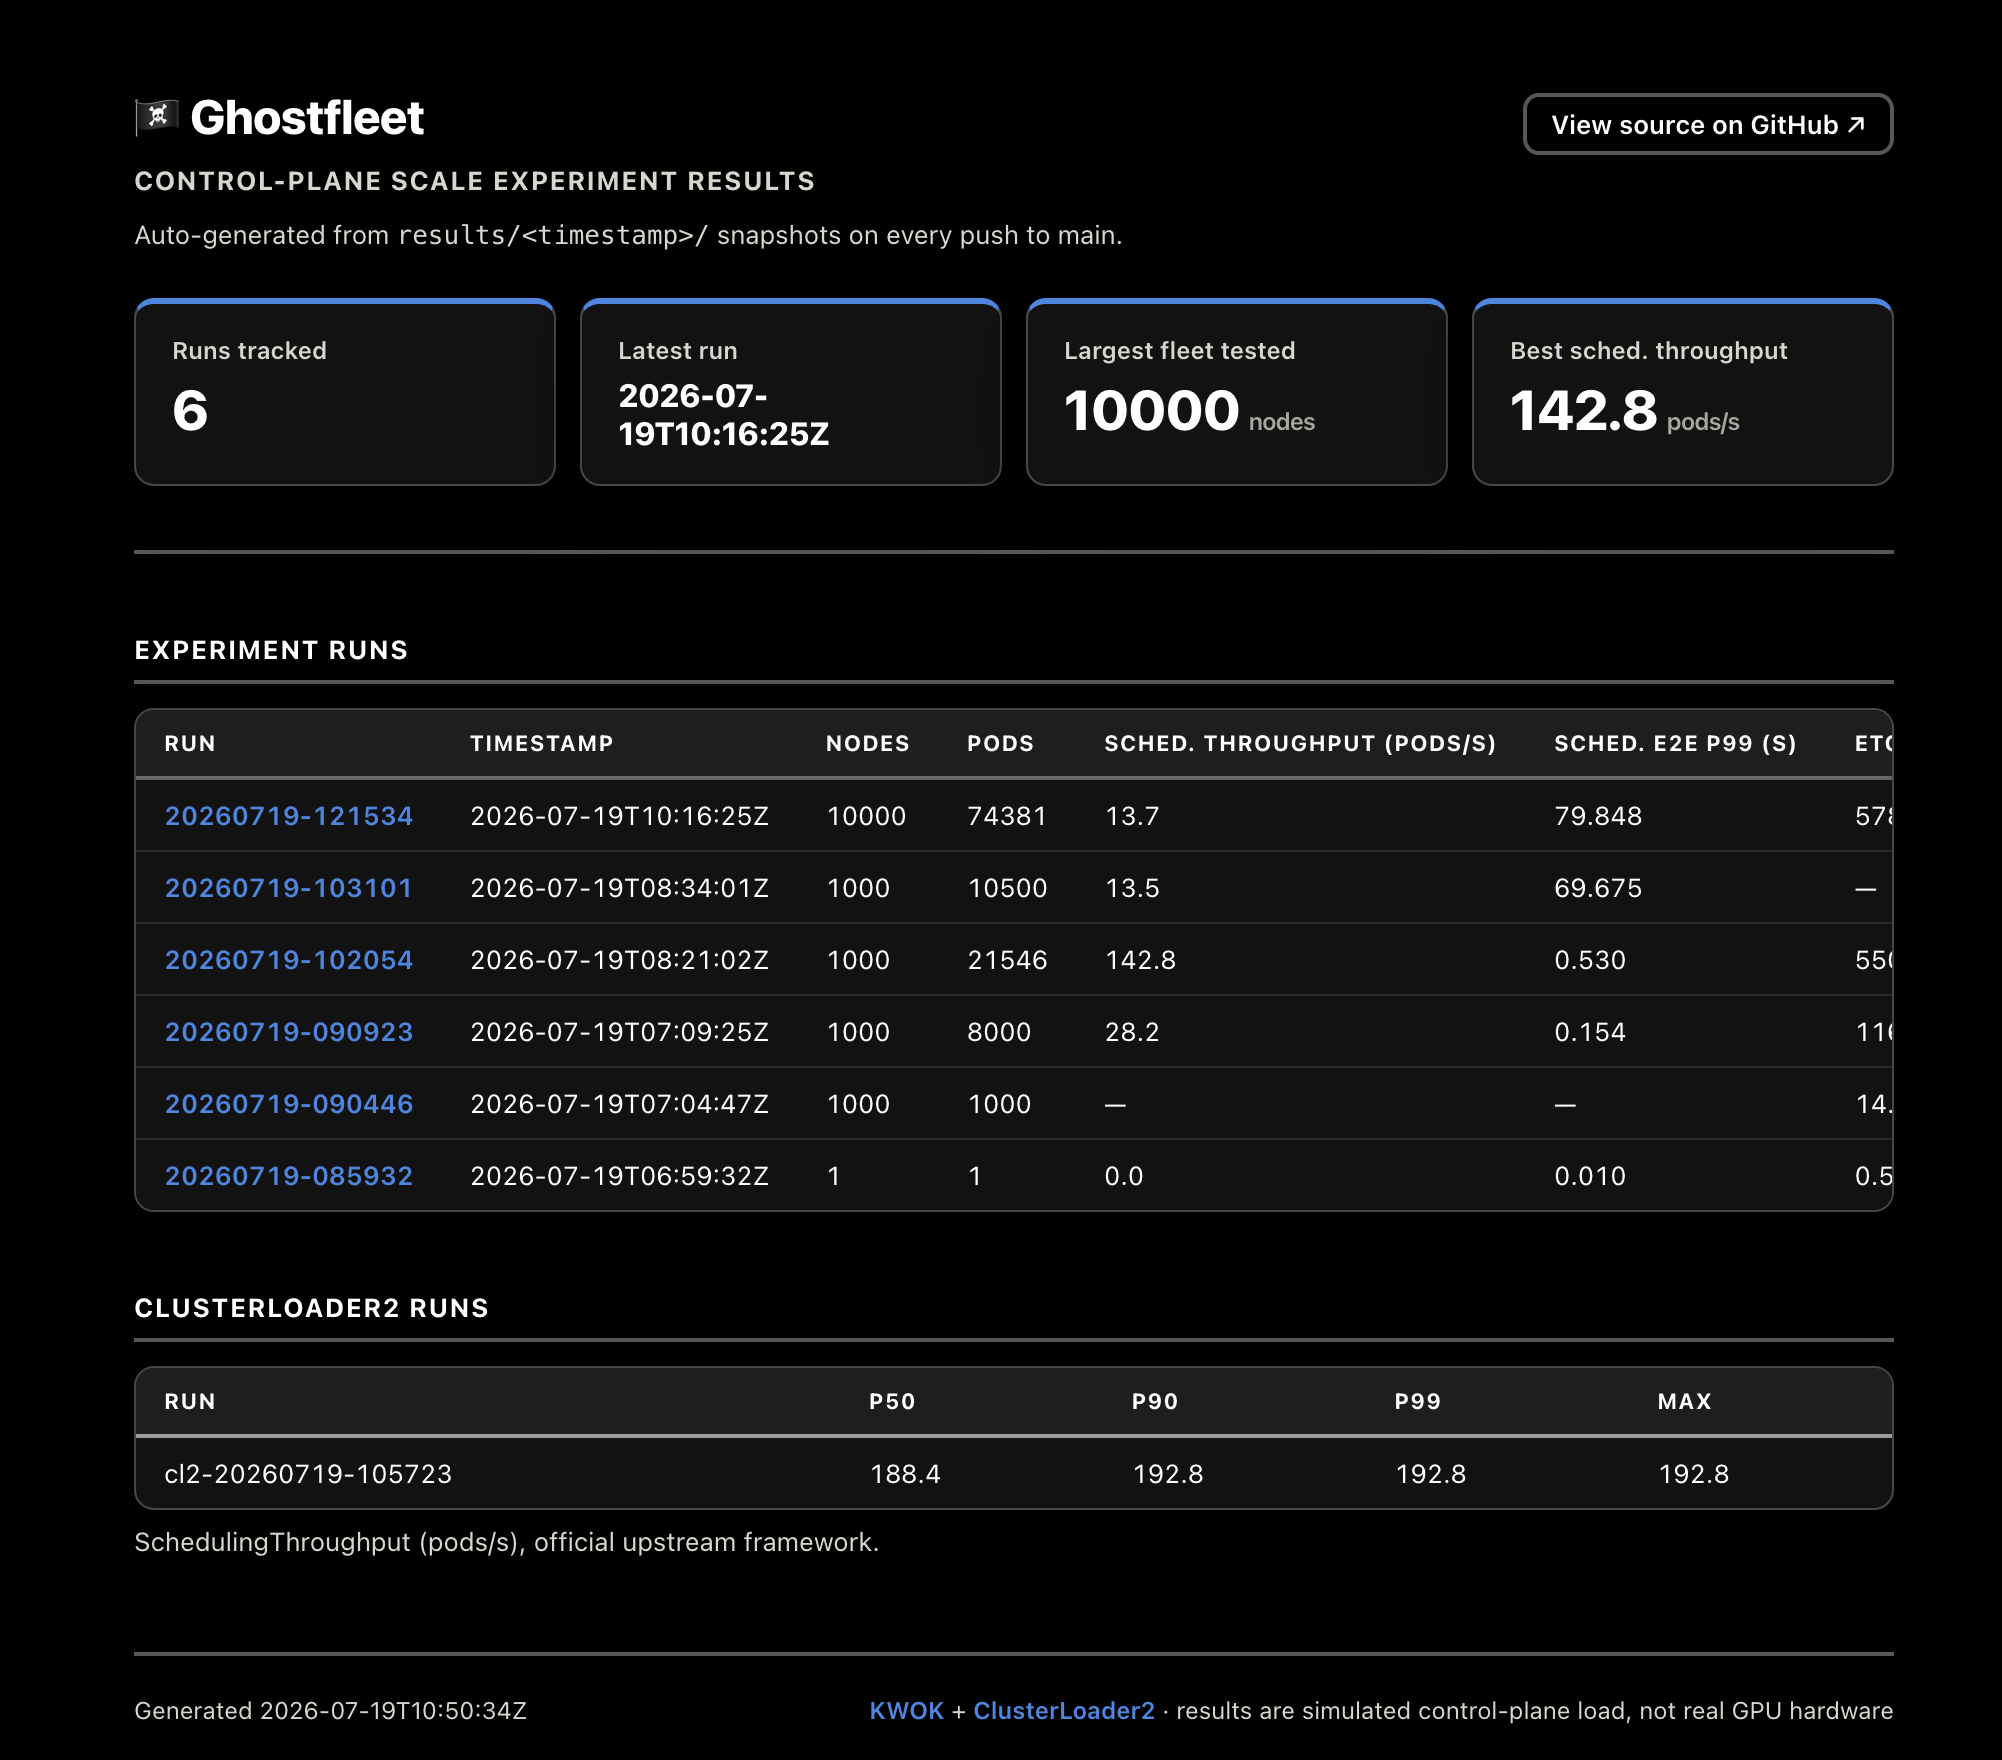
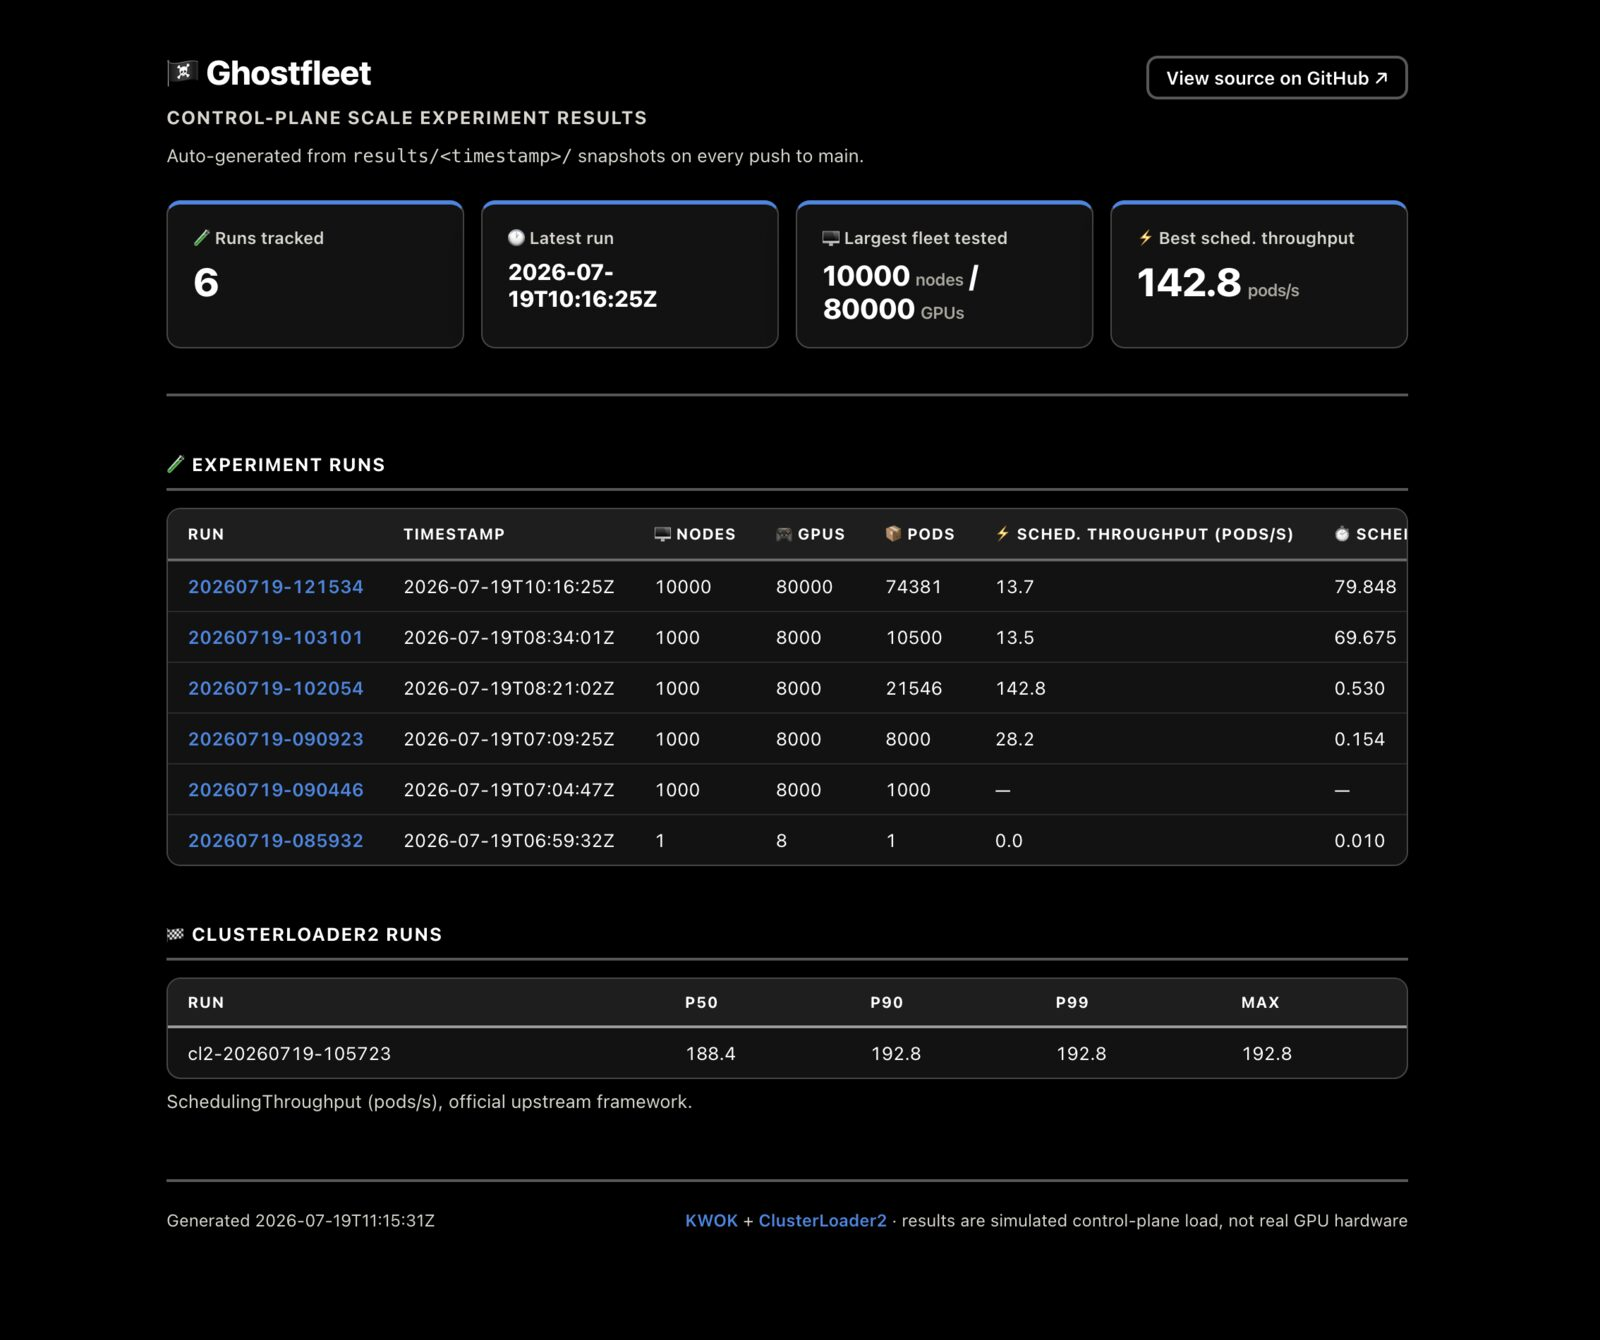
add report images

diff --git a/README.md b/README.md
@@ -25,7 +25,6 @@ See real test results on [GitHub Pages](https://hiteshsahu.github.io/ghostfleet/
 
 [![](./docs/img/dashboard.jpg)](https://hiteshsahu.github.io/ghostfleet/)
 
-
 ### **Why simulate?** 
 
 The scarce skill in AI infrastructure isn't running GPUs
@@ -142,6 +141,9 @@ Snapshot the metrics
 ./go report               
 ./go report results/20260719-090923
 ```
+
+[![](./docs/img/report.jpg)](https://hiteshsahu.github.io/ghostfleet/)
+
 
 Every push to `main` that touches `results/**` also publishes a browsable index of
 every run's report to GitHub Pages (see `.github/workflows/pages.yml` and